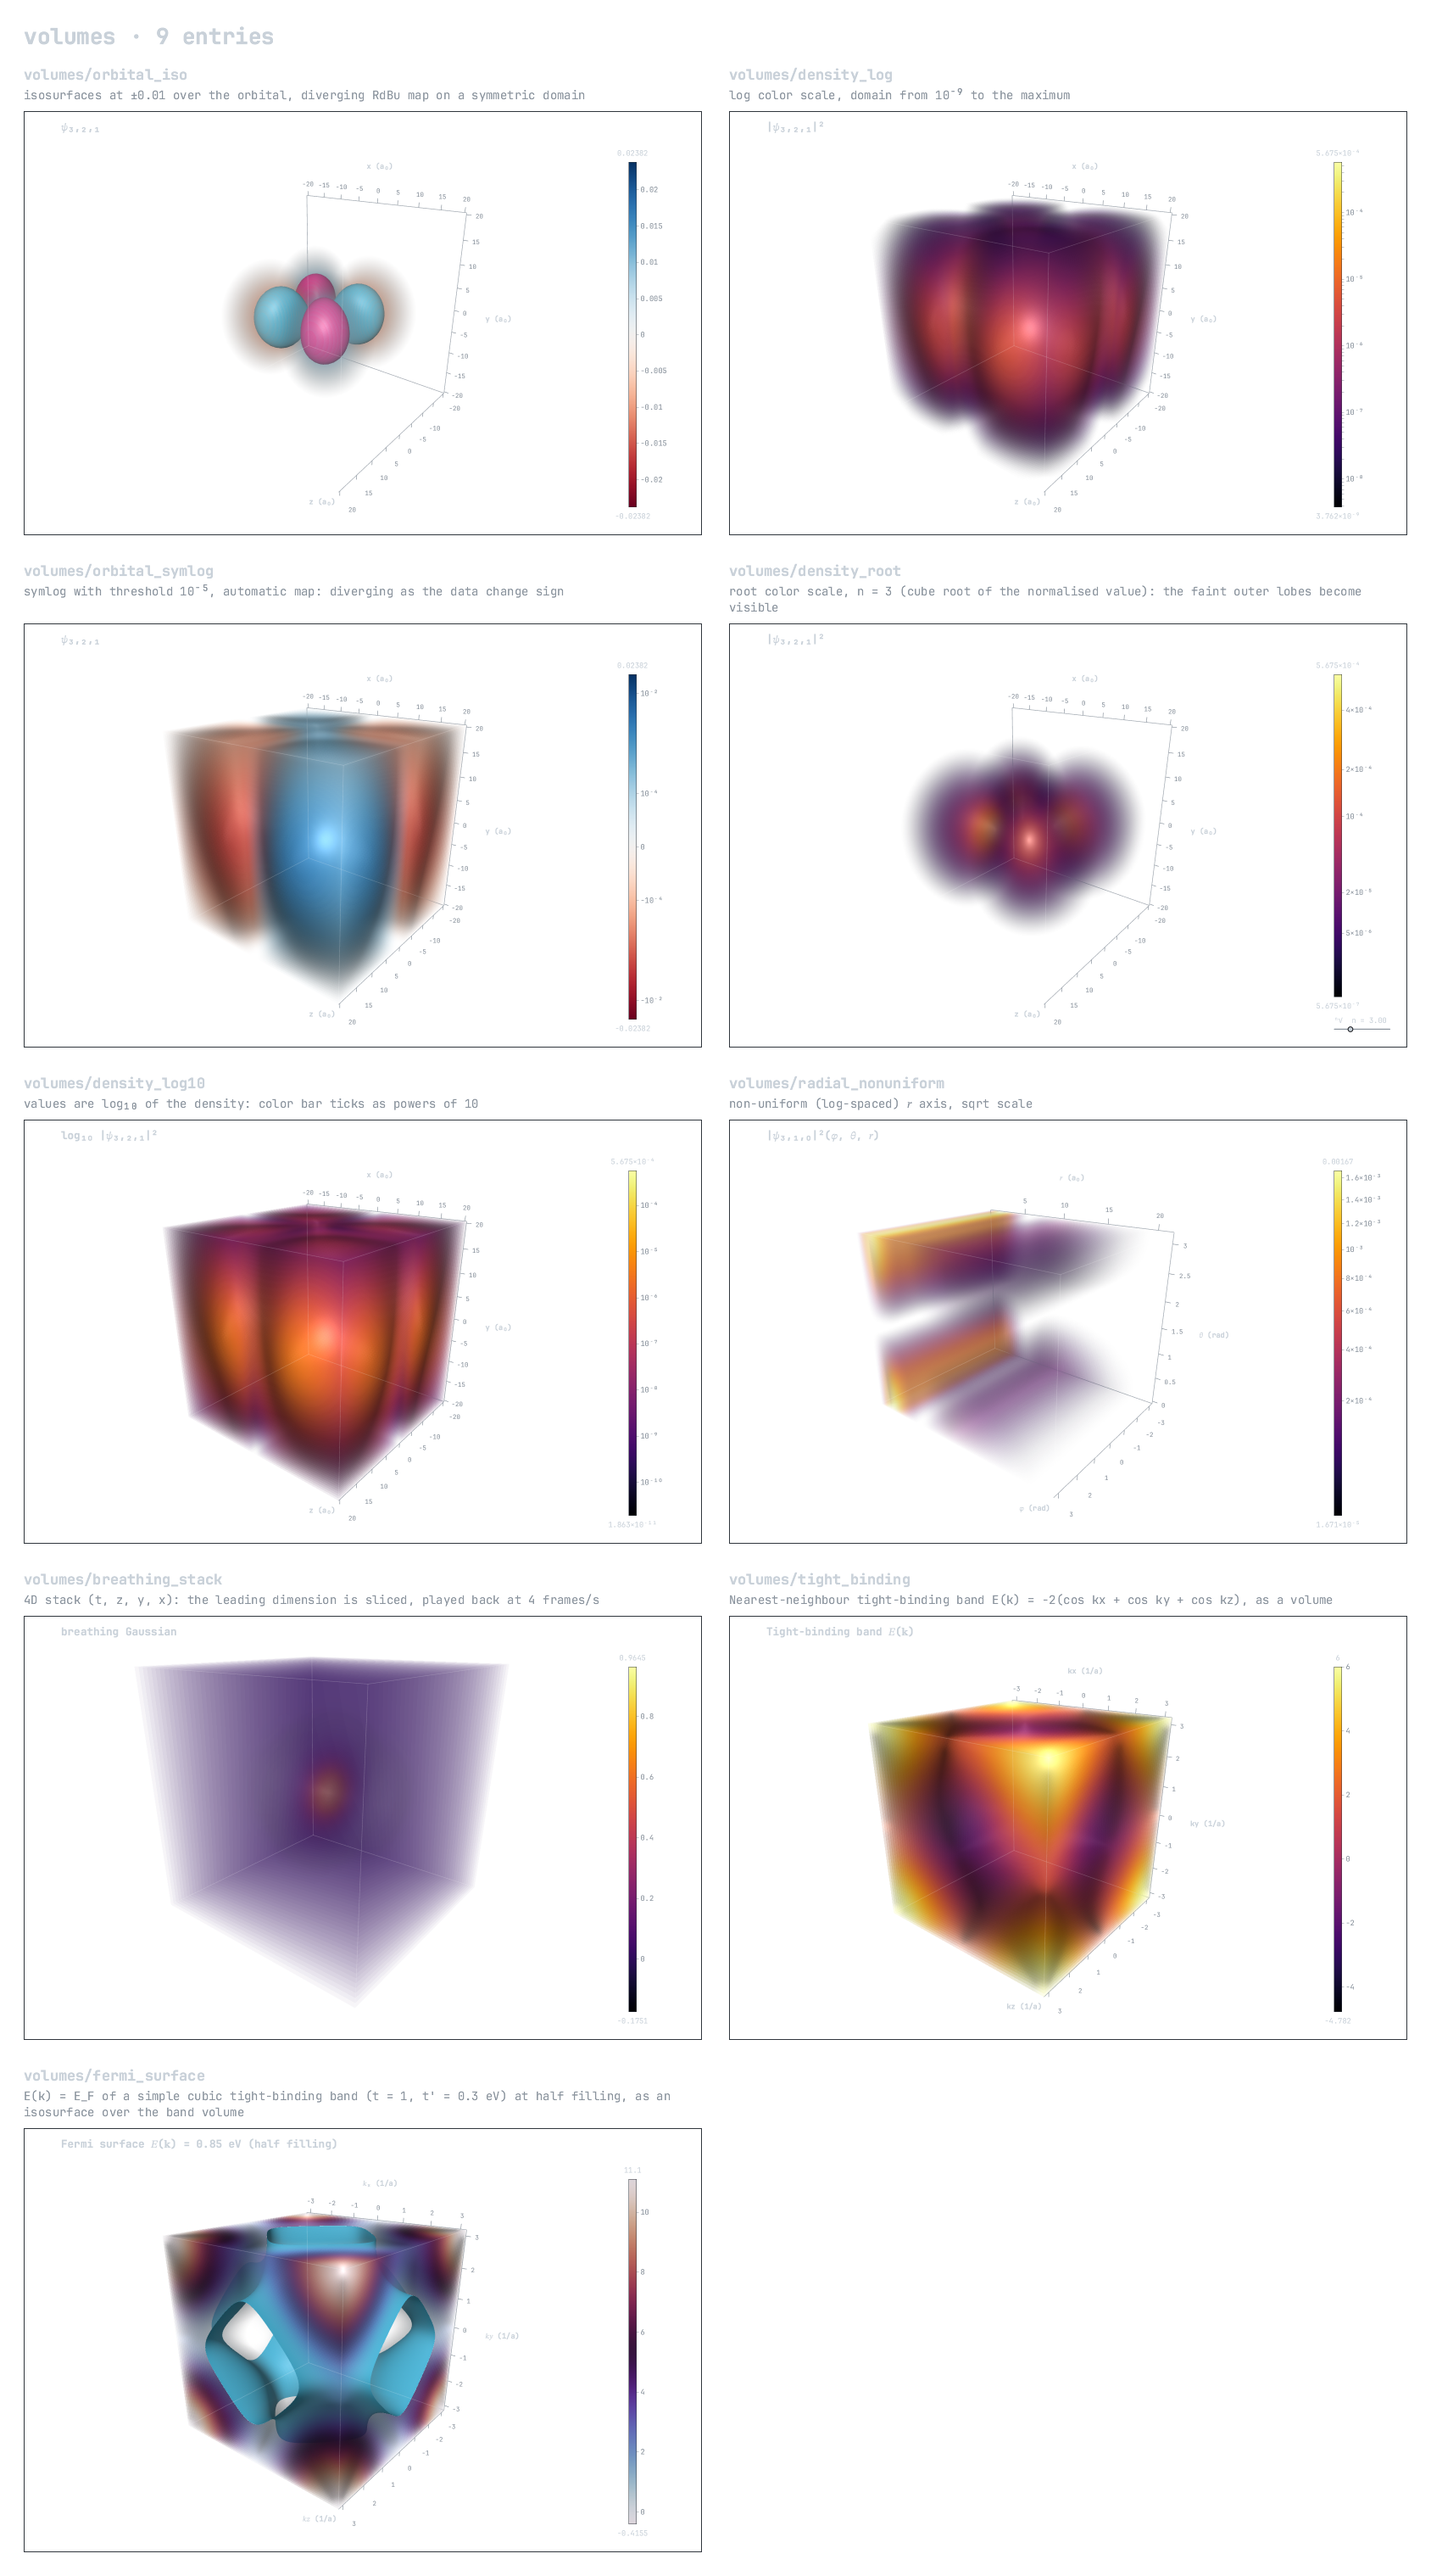
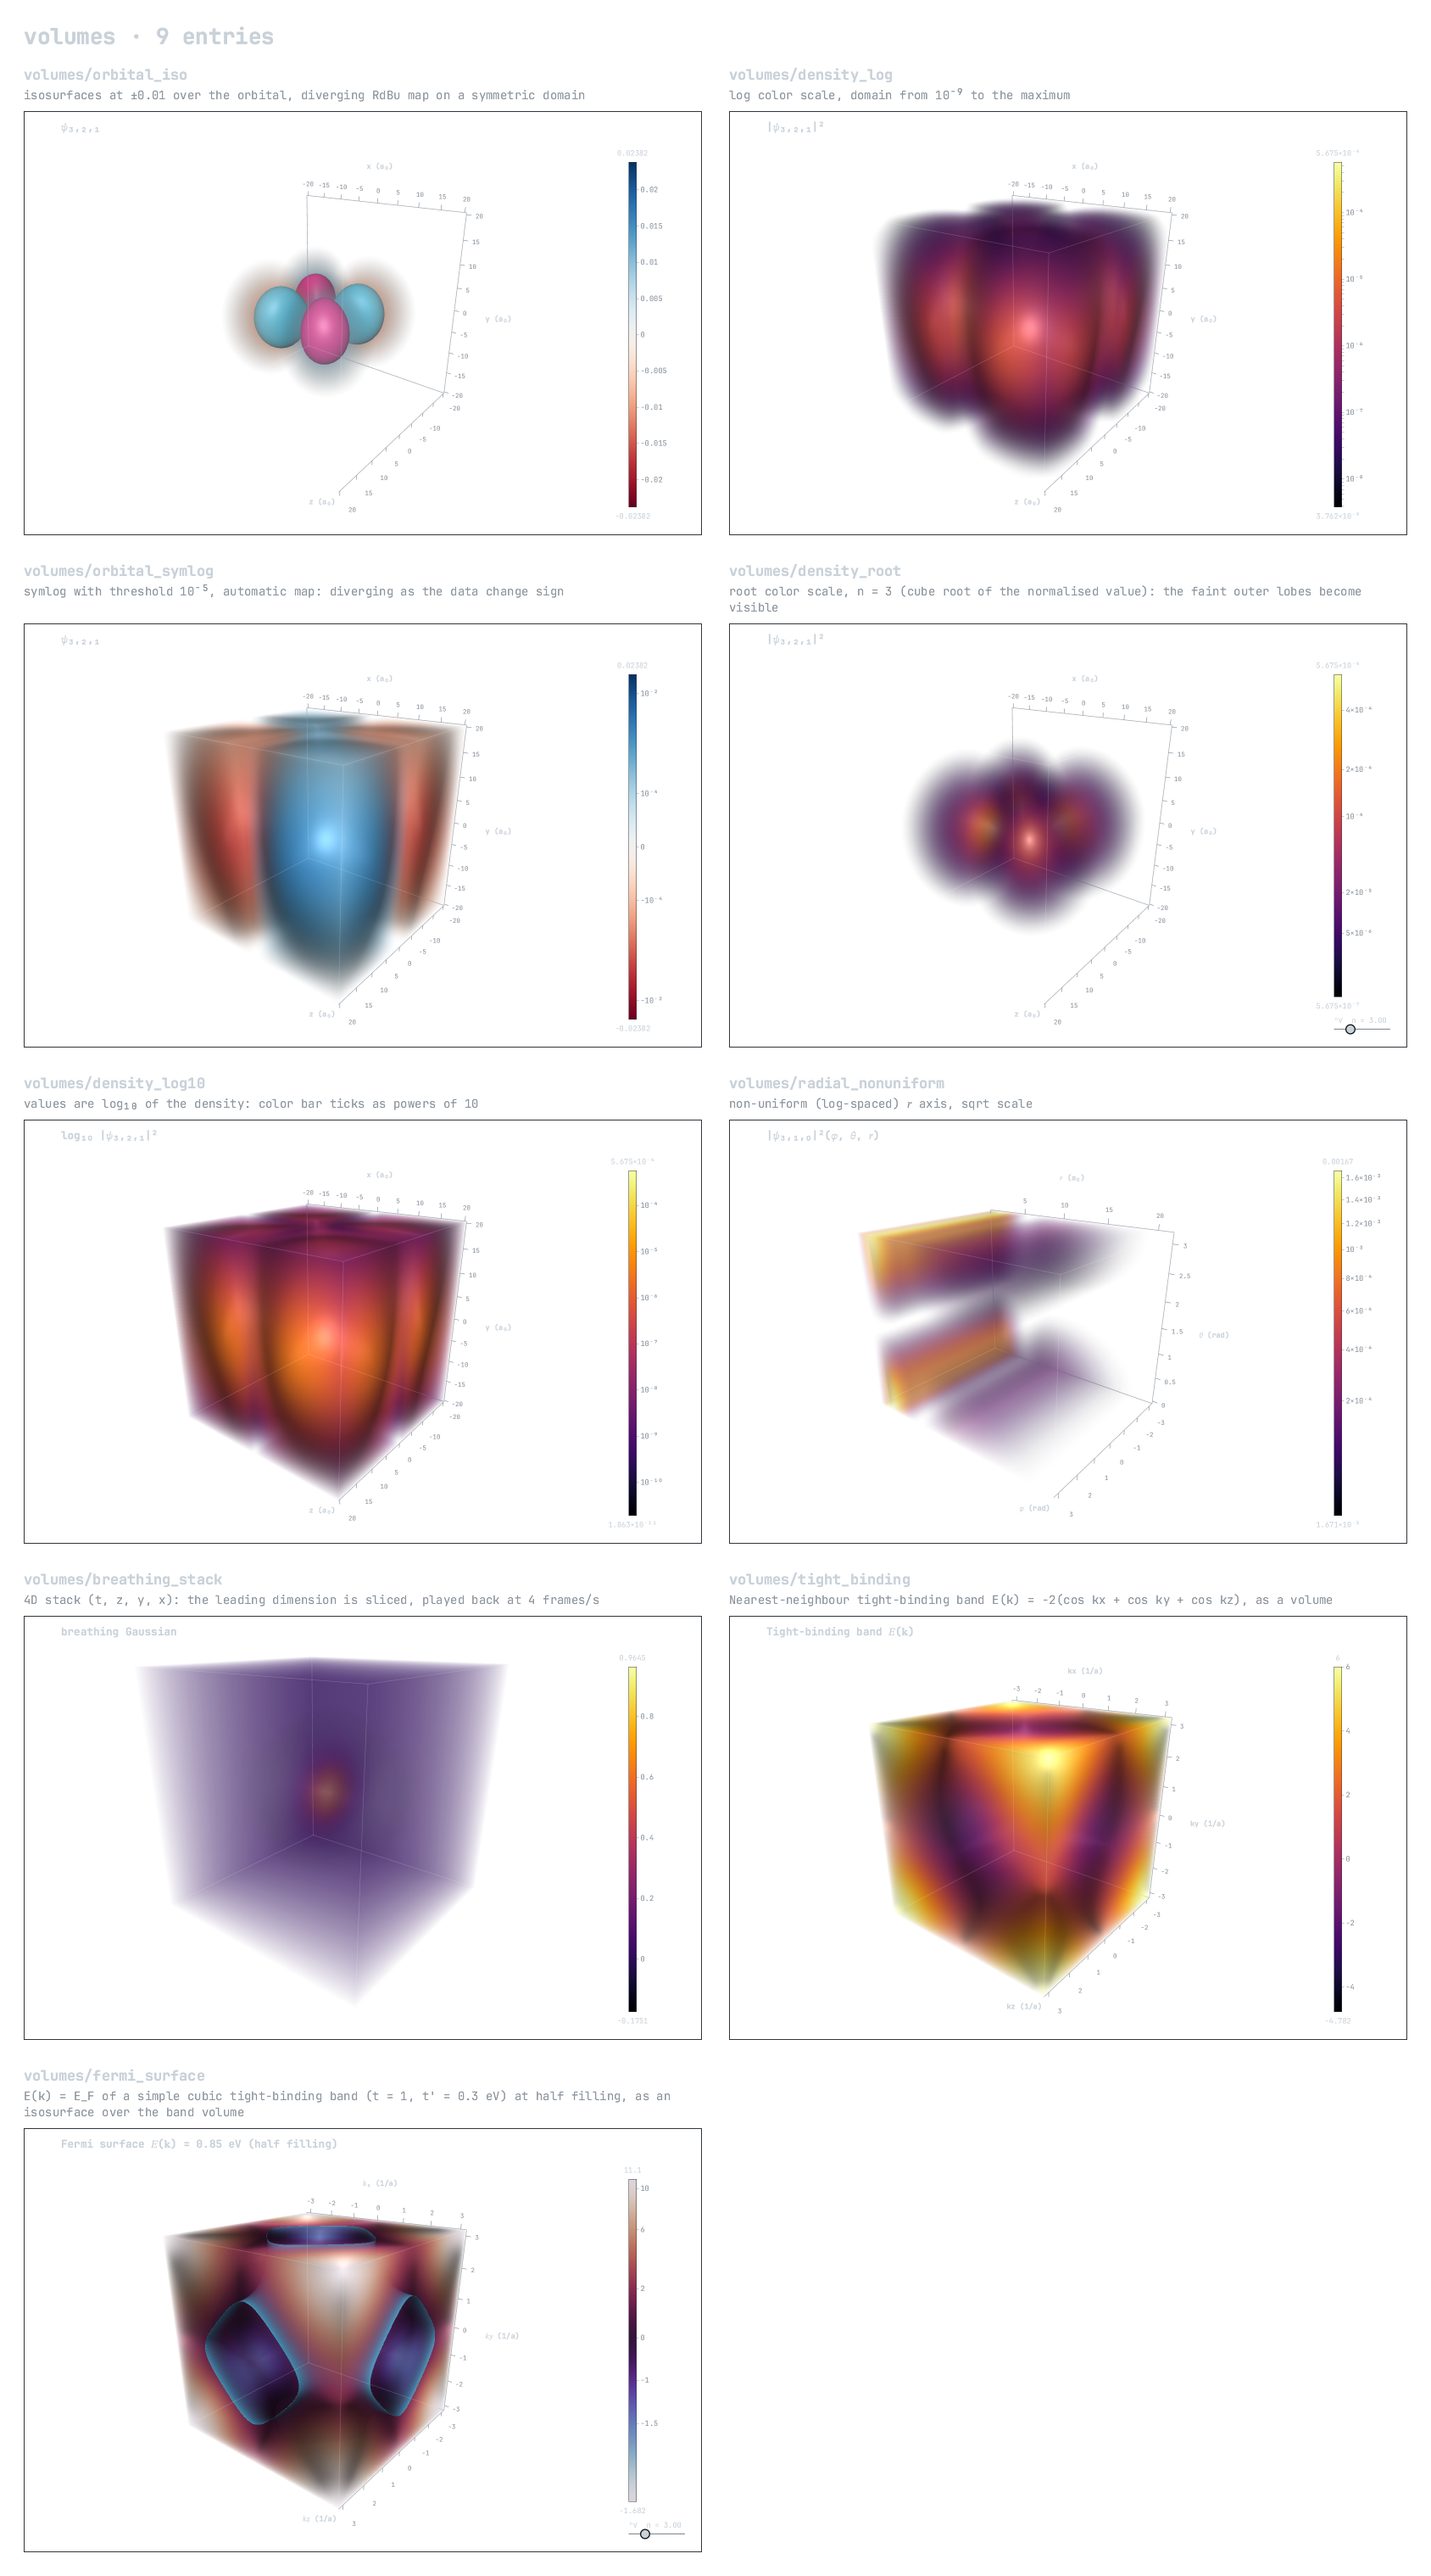
Smoother volumes; bigger slider knob; view takes inline NURBS
4 ray-march samples per voxel; fermi_surface opens with the root scale.
Skill: where to compute data (GPU, exact NURBS, arrays last).

Changed region(s): [[0.1232, 0.8357, 0.3389, 0.9905], [0.4313, 0.9285, 0.4621, 0.9905]]

diff --git a/hooks/register.tsx b/hooks/register.tsx
@@ -832,8 +832,17 @@ export const register: Register = (on, options) => {
     return {}
   })
 
-  on('tool.call', { tool: VIEW_TOOL }, async ($, e) =>
-    showView($, e, 'surface', ['surface', 'colorBy', 'colormap', 'azimuth', 'elevation', 'zoom', 'knotLines']))
+  on('tool.call', { tool: VIEW_TOOL }, async ($, e) => {
+    const input = e as any
+    if (input.nurbs !== undefined) { // a surface of Claude's own: it replaces the named one
+      const size = JSON.stringify(input.nurbs).length
+      if (size > 64_000) return { deny: `nurbs is ${size} bytes; keep it under 64 kB (an exact low-degree patch, or a coarse control net)` }
+    }
+    const e2 = input.nurbs !== undefined ? { ...input, surface: input.nurbs } : { ...input }
+    // a named surface (or a new nurbs) starts with the renderer's own colour range unless one is given
+    if (input.surface !== undefined || input.nurbs !== undefined) e2.domain ??= null
+    return showView($, e2, 'surface', ['surface', 'colorBy', 'colormap', 'invertColorMap', 'domain', 'azimuth', 'elevation', 'zoom', 'knotLines'])
+  })
 
   on('tool.call', { tool: OPEN_TOOL }, async ($, e) => {
     const all = await entries($)
@@ -910,9 +919,18 @@ export const register: Register = (on, options) => {
       inputSchema: {
         type: 'object',
         properties: {
-          surface: { type: 'string', enum: SURFACES, description: 'dini and breather: pseudospherical surfaces (curvature -1), coloured by height / the sine-Gordon angle' },
+          surface: { type: 'string', enum: SURFACES, description: 'a built-in surface; dini and breather: pseudospherical (curvature -1), coloured by height / the sine-Gordon angle' },
+          nurbs: {
+            type: 'object',
+            description: 'a surface of your own instead of `surface`: {degrees: [p, q], shape: [nu, nv], points: flat xyz (nu*nv*3, u outer), ' +
+              'weights: nu*nv, knots: [u knots (nu+p+1), v knots (nv+q+1)], fields?: [nu*nv control values]}. A polynomial graph z = f(x, y) ' +
+              'is exactly a Bezier patch (Bernstein coefficients); colour by `field` for a scalar on it (e.g. det of the Hessian), ' +
+              'or by gaussian-/mean-curvature',
+          },
           colorBy: { type: 'string', enum: ['field', 'height', 'field-gradient', 'height-gradient', 'gaussian-curvature', 'mean-curvature'] },
-          colormap: { type: 'string', enum: ['viridis', 'magma', 'inferno', 'plasma'] },
+          colormap: { type: 'string', enum: [...SEQUENTIAL_MAPS, ...DIVERGING_MAPS, ...CYCLICAL_MAPS].map((m) => m.toLowerCase()), description: 'diverging maps (rdbu, puor, ...) for signed values, with a symmetric `domain`' },
+          invertColorMap: { type: 'boolean' },
+          domain: { type: ['array', 'null'], items: { type: 'number' }, description: '[lo, hi] of the colour map; null: the renderer\'s own (2nd-98th percentile)' },
           azimuth: { type: 'number', description: 'degrees' },
           elevation: { type: 'number', description: 'degrees, -89..89' },
           zoom: { type: 'number', description: 'relative to the auto-fit framing (1)' },

diff --git a/deno/lib/overlay.ts b/deno/lib/overlay.ts
@@ -369,7 +369,7 @@ export function rootSlider(q: Quads, font: FontSize, x: number, top: number, wid
   const y = Math.round(top + font.ascent + font.descent + 8 * s); // track centre
   const th = Math.max(Math.round(2 * s), 2);
   q.rect(x, y - th / 2, width, th, premul("#8b949e"), { radius: th / 2 });
-  q.dot(x + ((n - min) / (max - min)) * width, y, 5 * s, 1.5 * s, premul("#c9d1d9"), premul("#101216"));
+  q.dot(x + ((n - min) / (max - min)) * width, y, 9 * s, 2 * s, premul("#c9d1d9"), premul("#101216")); // big enough to grab
   const reach = Math.round(12 * s);
   return { rect: [x, y - reach, x + Math.round(width), y + reach], min, max, step, value: n };
 }

diff --git a/deno/gallery/volumes_entries.ts b/deno/gallery/volumes_entries.ts
@@ -87,7 +87,7 @@ export const entries: Entry[] = [
     title: "Fermi surface",
     description: "E(k) = E_F of a simple cubic tight-binding band (t = 1, t' = 0.3 eV) at half filling, as an isosurface over the band volume",
     renderer: "volume.ts",
-    control: { volume: { dataset: "fermi", size: 64 }, colormap: "Twilight", valueLabel: "𝐸 (eV)" }, // iso level, centre, title: E_F (the median)
+    control: { volume: { dataset: "fermi", size: 64 }, colormap: "Twilight", valueLabel: "𝐸 (eV)", scale: "root", rootN: 3 }, // iso level, centre, title: E_F (the median)
     interaction: "orbit",
   },
 ];

diff --git a/deno/lib/volume_utils.ts b/deno/lib/volume_utils.ts
@@ -3,7 +3,7 @@
 import { createScale, type Domain, getShaderScale, type VisScale } from "./scales.ts";
 
 export type Quality = "low" | "medium" | "high";
-export const SAMPLES_PER_VOXEL: Record<Quality, number> = { low: 0.5, medium: 1, high: 2 }; // halved while interacting
+export const SAMPLES_PER_VOXEL: Record<Quality, number> = { low: 1, medium: 4, high: 8 }; // halved while interacting
 
 const UNIFORMITY_TOLERANCE = 1e-2;
 const FLOAT_PRECISION = 2 ** -20;

diff --git a/skills/terminal-graphics/SKILL.md b/skills/terminal-graphics/SKILL.md
@@ -16,7 +16,7 @@ has a visible effect, render the alternatives side by side and show them before 
 |---|---|
 | A PNG you made (matplotlib, a renderer, a screenshot) | `mcp__sciviz__show` with the absolute `path` (and a one-line `caption`) |
 | An interactive view of a gallery entry (lines, curves, complex, volumes...) | `mcp__sciviz__gallery_open` with its `id` (fuzzy names work: `blocks`, `lorenz`); `control` overrides fields (window `x0`/`x1`, camera `azimuth`/`elevation`/`zoom`, `colormap`) |
-| A live 3D NURBS surface | `mcp__sciviz__view` |
+| A live 3D surface: built-in (`torus`, `sphere`, `wave`, `dini`, `breather`) or **your own** | `mcp__sciviz__view` with `surface`, or with `nurbs` (see below) |
 | A live PCHIP interpolation plot | `mcp__sciviz__plot` |
 
 Live views render on the GPU (WebGPU) and stream frames into the chat. **The newest view is live;
@@ -24,10 +24,31 @@ earlier ones freeze** on their last settled frame, so the conversation keeps a v
 Every live-view tool returns a `snapshot` PNG path: **Read it** to see exactly what the user sees
 before you talk about it, and the renderer `state` (window, value ranges, camera, hover).
 
-Tell the user how to drive a live view the first time: drag (pan in 2D, orbit in 3D),
+In 3D views only the object itself takes the mouse; the user can select text in the empty space
+around it. Tell the user how to drive a live view the first time: drag (pan in 2D, orbit in 3D),
 shift-drag or `+`/`-` (zoom), hover (values drawn next to the cursor), click the view then
 `c`/`C` (cycle colour maps within their group), `i` (invert), `r` (reset). Their one slash command:
 `/sciviz [section]` shows a contact sheet, `/sciviz <entry>` (e.g. `lorenz`) opens a live view.
+
+## Where to compute the data
+
+Compute as close to the renderer as you can, in this order:
+
+1. **On the GPU, by the renderer.** Gallery entries and generator specs (`fn: {name: "besselJ", order: 3}`,
+   ODEs, orbitals, complex functions) are evaluated in compute shaders. The data never leaves the
+   GPU and is re-sampled live as the user pans and zooms. Reach for an existing entry and override
+   its `control` before anything else.
+2. **Exactly, as a NURBS.** Many surfaces have an exact rational form, and you can pass it to `view` as
+   `nurbs`. A polynomial graph z = f(x, y) of degree (p, q) is one Bézier patch: x and y are
+   linear in the parameters, and z's control values are f's Bernstein coefficients (solve the
+   (p+1)-point collocation in each direction). Scalar fields go in `fields` in the same basis, e.g.
+   det ∇²f to show a saddle, coloured with a diverging map (`rdbu`, `invertColorMap: true`, symmetric
+   `domain`). Revolved and conic shapes are exact with rational weights. The renderer evaluates it,
+   normals and curvature included, on the GPU.
+3. **Only for data that exists as measurements:** compute it elsewhere and send arrays, or plot a
+   PNG and `show` it. Don't sample a mathematical function in Python and ship its values as JSON
+   when tier 1 or 2 can draw it: that path can't re-sample when the user zooms, and the arrays
+   flood the control.
 
 ## Making images that look right in the terminal
 
@@ -57,7 +78,8 @@ shift-drag or `+`/`-` (zoom), hover (values drawn next to the cursor), click the
   terminal raw, so nothing renders. Use `show`.
 - Don't put big data arrays into a live view's `control` overrides: the control is rewritten on
   every pointer event. Entries carry small generator specs (e.g. an ODE or a function name) that
-  the renderer evaluates on the GPU.
+  the renderer evaluates on the GPU. A `nurbs` surface should be a small exact patch or a coarse
+  control net (under 64 kB), not a dense sample grid.
 - Don't open a new live view for every small change: one view the user drives is better than five
   frozen ones. Change parameters with the tool's `control` only when the user asks or you're
   showing something specific.
